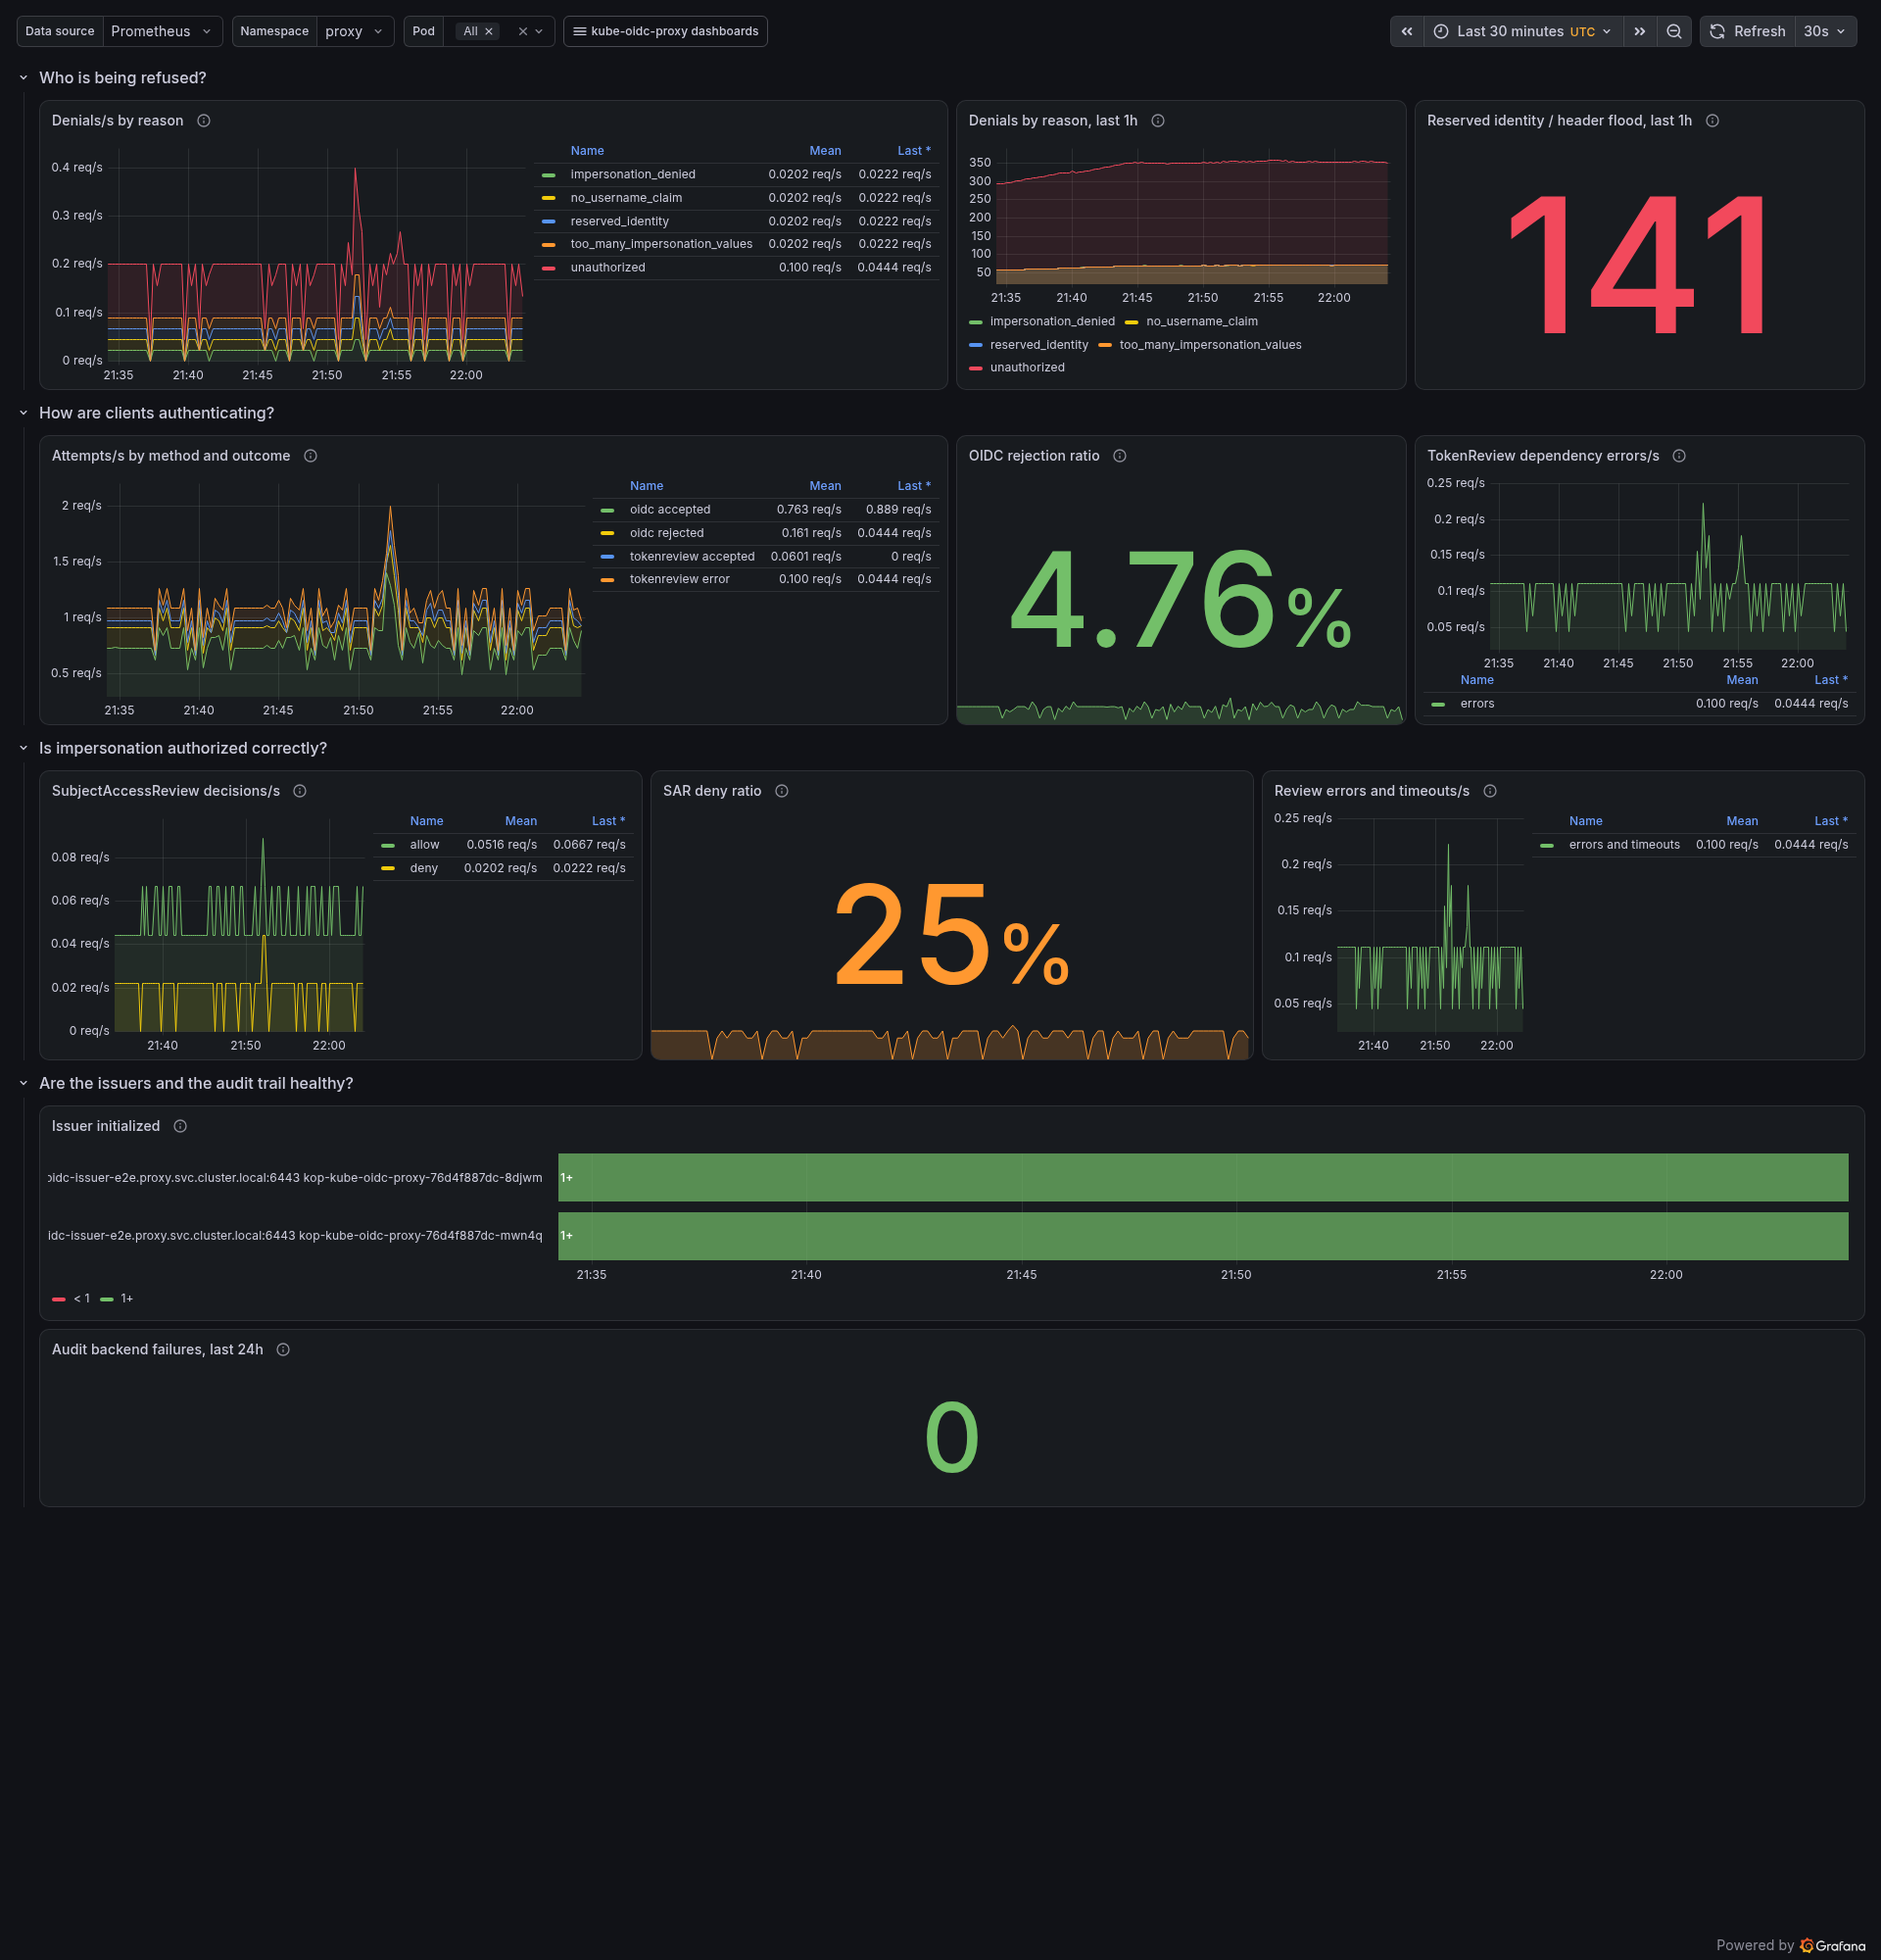
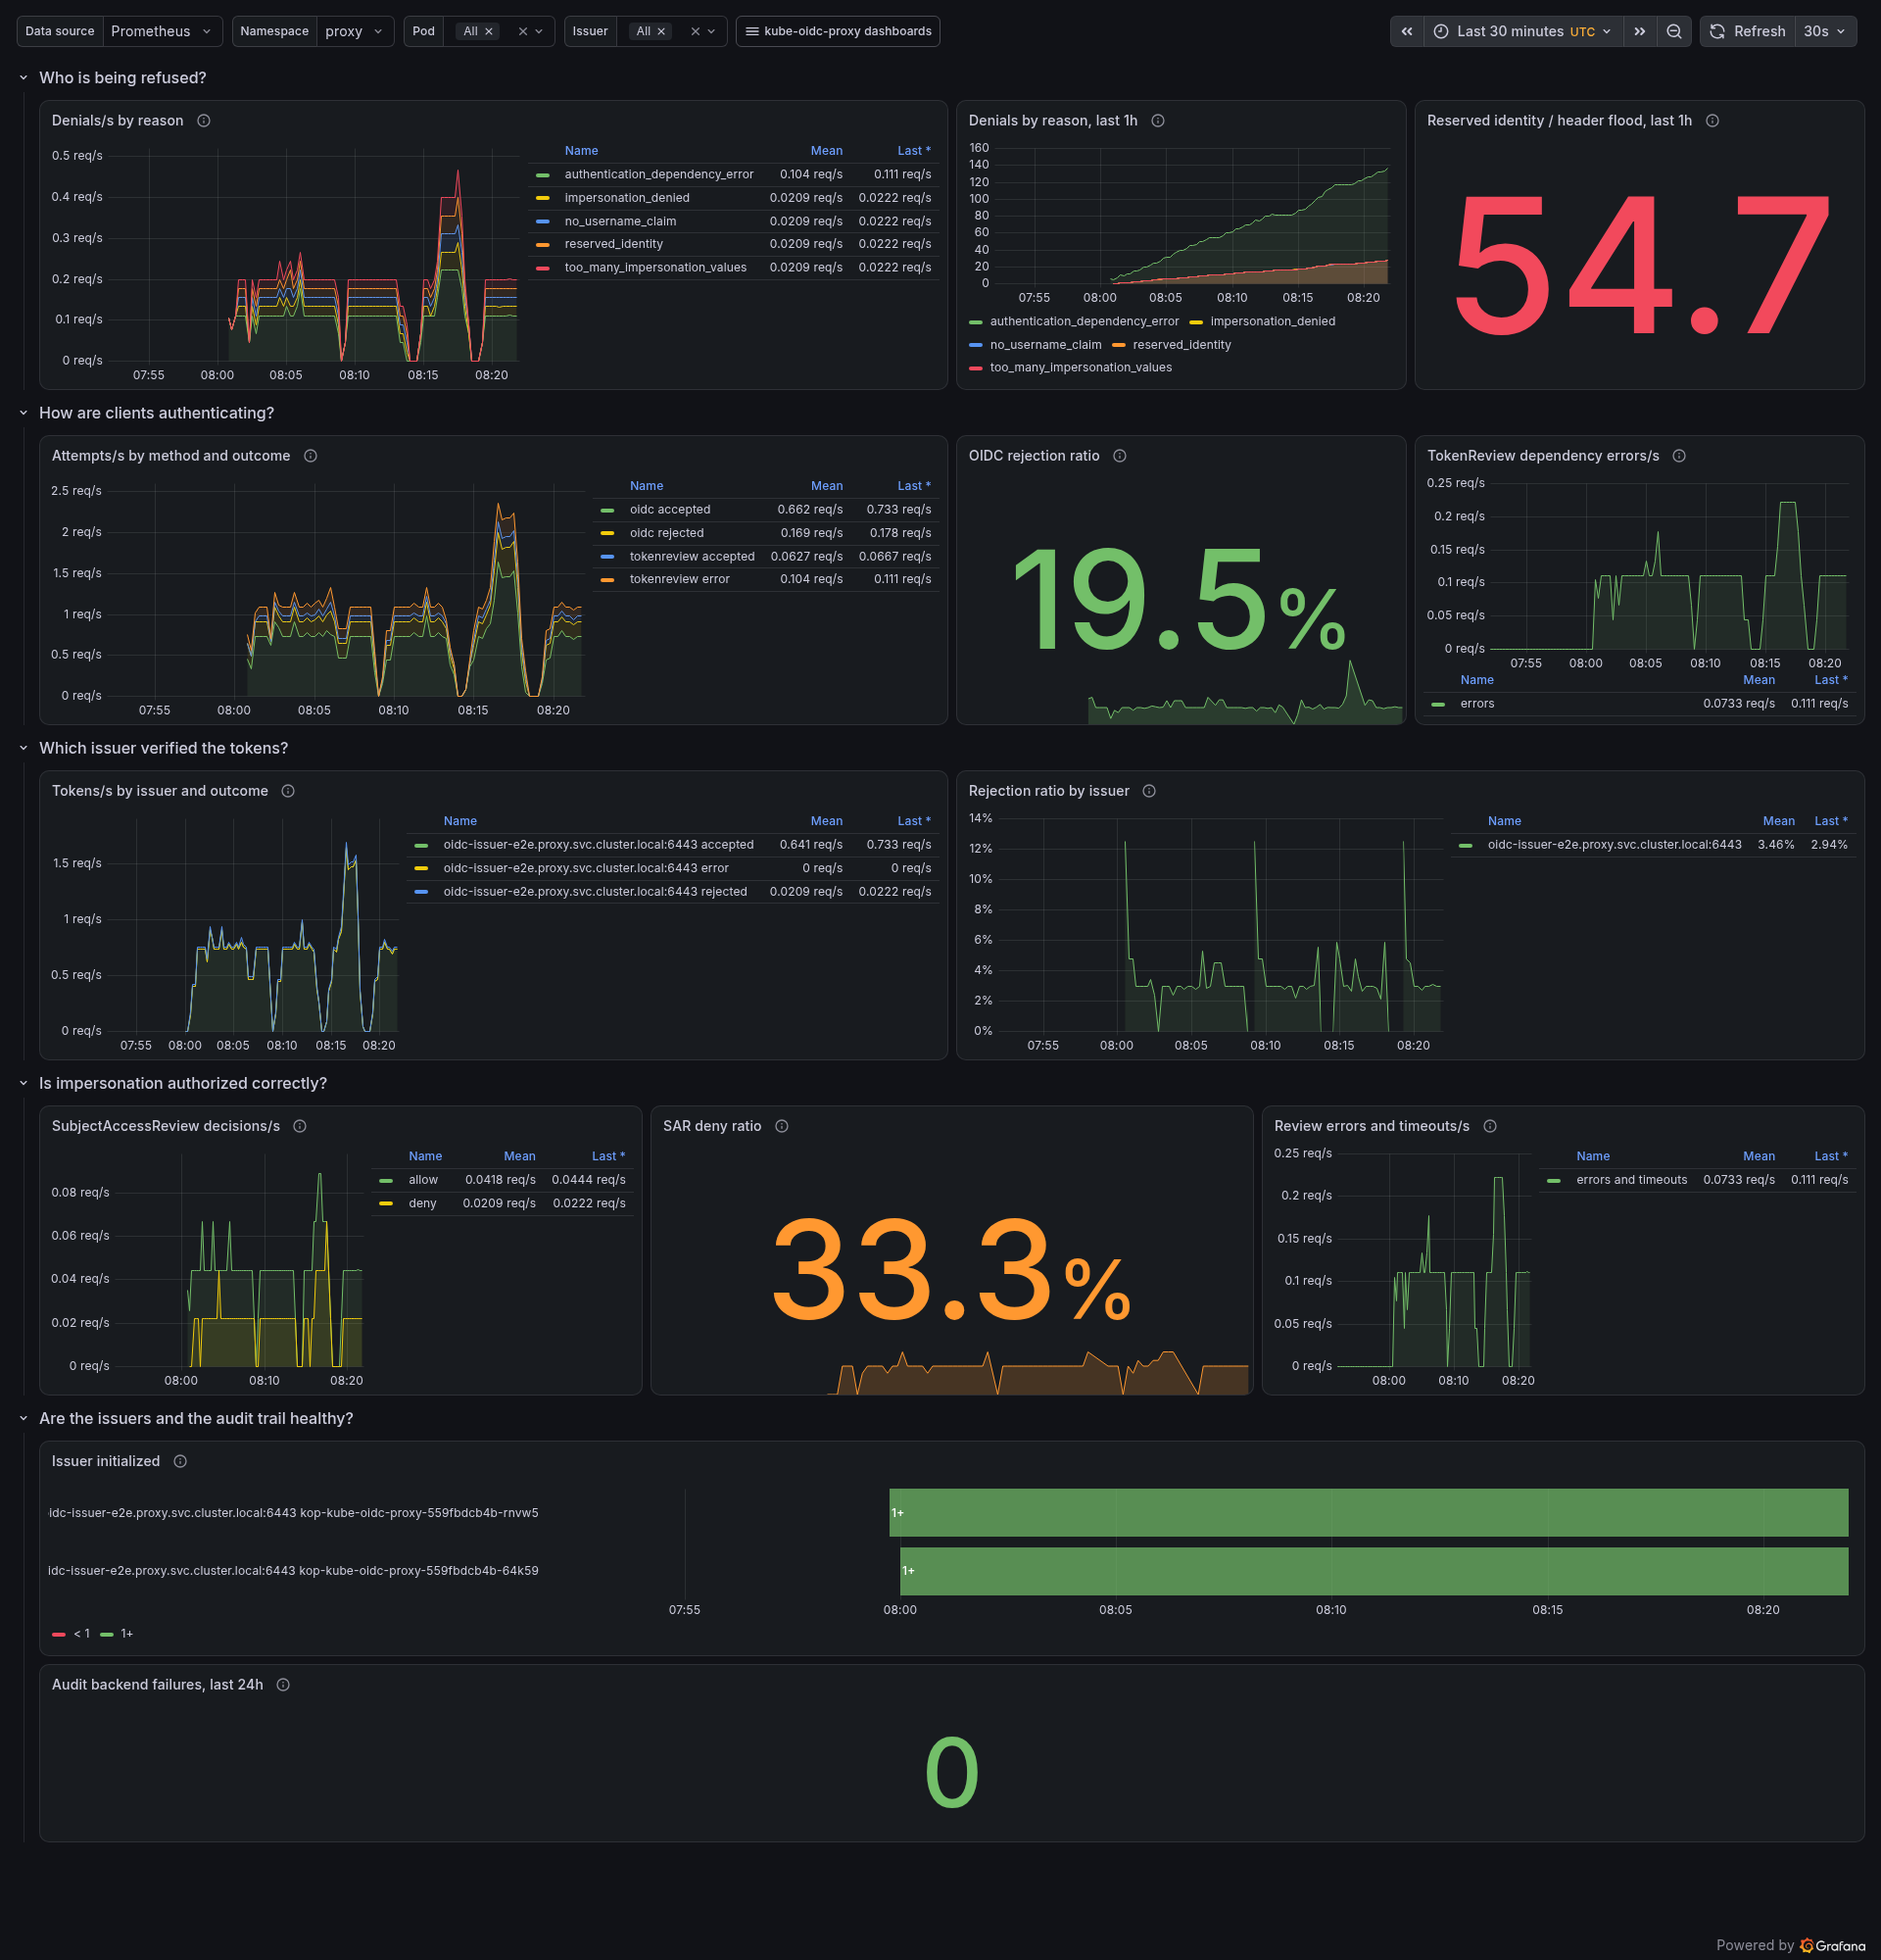
docs: show the per-issuer token counter in the interactive docs, and fix the metrics demo for Grafana 13.2

diff --git a/docs/interactive/request-flow.md b/docs/interactive/request-flow.md
@@ -32,6 +32,7 @@ With one entry for a URL, the router selects that entry without using the audien
 The selected authenticator still checks the audience.
 With several entries, no match or multiple matches cause `audience_unrouted`. No issuer verifies that token.
 A verification failure does not try another issuer entry.
+The metric `kube_oidc_proxy_oidc_issuer_tokens_total` counts each token by the selected entry and the result. The security dashboard shows it per issuer.
 OIDC errors can enter TokenReview fallback when you enable passthrough.
 
 The audience does not prove organization membership. Each entry must restrict its trust group through claim validation.
